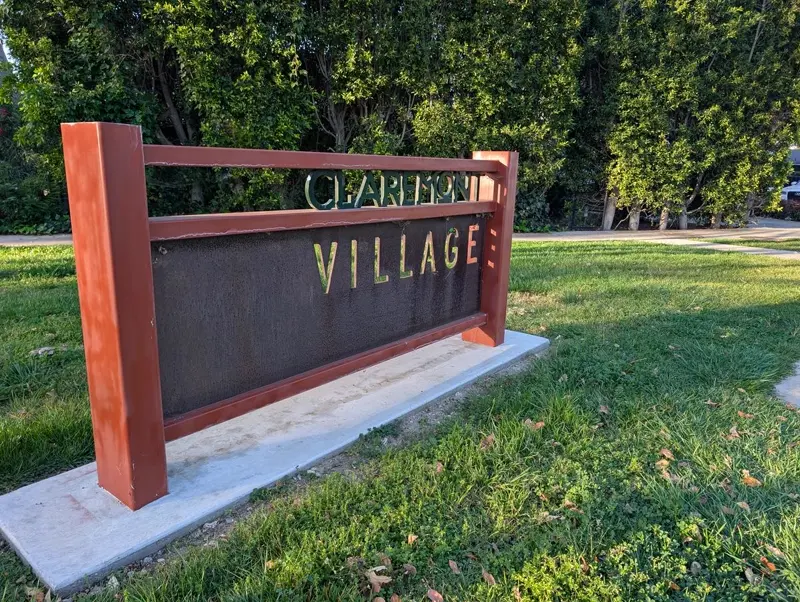
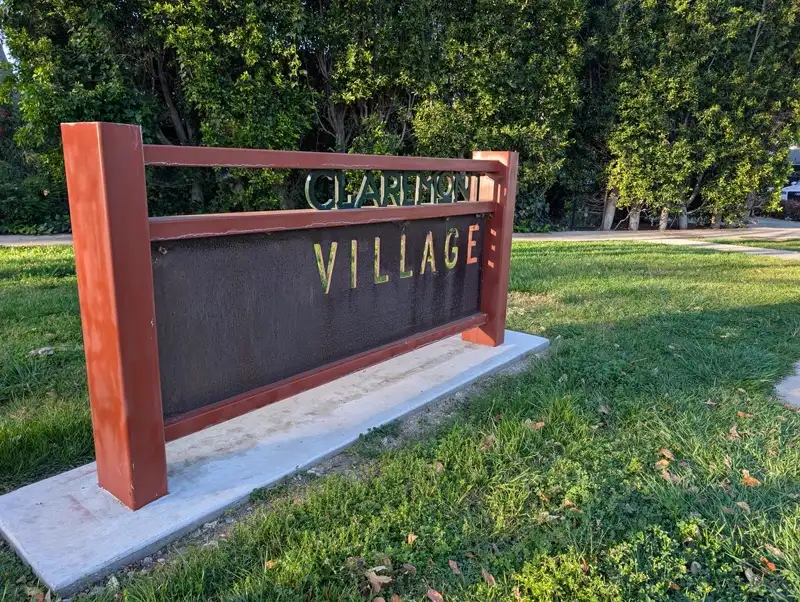
Remove unused preconnects, compress village sign image more
- Remove Google Fonts preconnects (Cloudflare Fonts serves locally)
- Recompress village sign WebP: 130KB → 106KB

diff --git a/index.html b/index.html
@@ -217,8 +217,6 @@
   }
   </script>
 
-  <link rel="preconnect" href="https://fonts.googleapis.com">
-  <link rel="preconnect" href="https://fonts.gstatic.com" crossorigin>
   <link rel="preload" as="image" href="photos/hero-poster.webp" type="image/webp" fetchpriority="high">
   <link href="https://fonts.googleapis.com/css2?family=DM+Serif+Display&family=Playfair+Display:wght@700;800&family=Inter:wght@400;600;700&display=swap" rel="stylesheet" media="print" onload="this.media='all'">
   <noscript><link href="https://fonts.googleapis.com/css2?family=DM+Serif+Display&family=Playfair+Display:wght@700;800&family=Inter:wght@400;600;700&display=swap" rel="stylesheet"></noscript>
@@ -242,7 +240,7 @@
     .heart-o-hero { font-size:0.75em; transform:translateY(-0.02em); }
     .sr-only { position:absolute; width:1px; height:1px; padding:0; margin:-1px; overflow:hidden; clip:rect(0,0,0,0); border:0; }
   </style>
-  <link rel="stylesheet" href="styles.css?v=20260321o">
+  <link rel="stylesheet" href="styles.css?v=20260321p">
 </head>
 <body>
 
